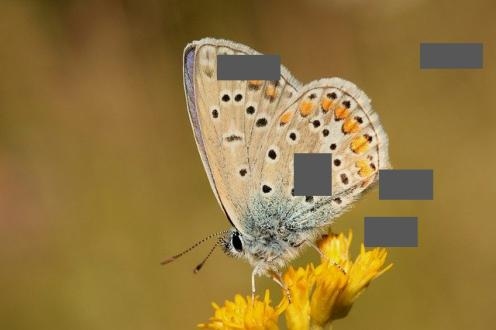
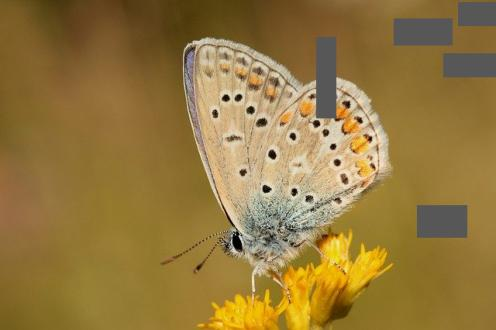
changed color_transformer example

diff --git a/tests/create_assets.py b/tests/create_assets.py
@@ -12,7 +12,7 @@ plt.savefig('assets/base.jpg', bbox_inches='tight', transparent=True, pad_inches
 
 # TODO: config that actually changes something
 from augmentator.color_transformer import Color_Transformer
-ct = Color_Transformer()
+ct = Color_Transformer('kill', channel='r')
 
 img_augment = ct.augment(img.copy())
 plt.figure()

diff --git a/README.md b/README.md
@@ -53,7 +53,7 @@ The augmentations are automatically performed on a provided image dataset. For t
 
 ___
 ## examples
-Examples can be taken in the following order: `base_image, color_transformer, cropper, eraser, flipper, kernel_filter, noise_injector, translator, styler`<br>
+Examples can be taken in the following order: `base_image, color_transformer, cropper, eraser, flipper, kernel_filter, noise_injector, translator, rotator, styler`<br>
 <img src="/assets/base.jpg" height="200" height="200"/>
 <img src="/assets/color_transformer.jpg" height="200" height="200"/>
 <img src="/assets/cropper.jpg" height="200" height="200"/>
